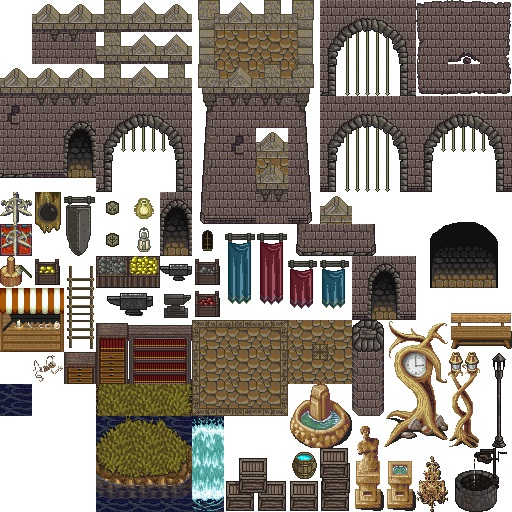
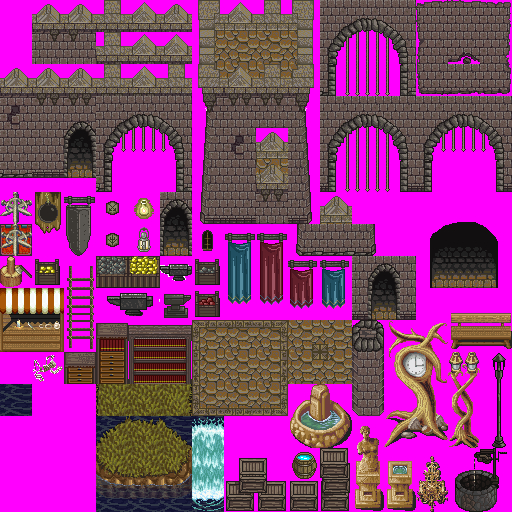
Fixed some weirdness with the tileset by using (255, 0, 255) as alpha color.

diff --git a/src/Maps.py b/src/Maps.py
@@ -3,18 +3,30 @@ from Knight_Game_Objects import *
 
 class Map:
     
-    def __init__(self, tileset, layout, static_objects):
+    def __init__(self, tileset, layout, static_objects=[]):
         self.tileset = tileset
         self.layout = layout
         self.static_objects = static_objects
-
+        self.blank_tile = pygame.Surface((32, 32)).convert()
+        
 # definitions of maps
 
+# castle_tileset_test_map
+layout = []
+counter = 0
+for i in range(16):
+    temp_row = []
+    for j in range(16):
+        temp_row.append(counter)
+        counter += 1
+    layout.append(temp_row)
+
+castle_tileset_test_map = Map(Tilesets.castle, layout)
+
 # map01
-tileset = Tilesets.castle
 layout = [
-    [  6, 164, 165, 164, 165, 164, 165, 164, 165, 164, 165, 164, 165, 164, 165, 164, 165, 164, 165, 164, 165, 164, 165, 164, 165, 164, 165, 164, 165, 164, 165, 164, 165,   9],
-    [ 22, 180, 181, 180, 181, 180, 181, 180, 181, 180, 181, 180, 181, 180, 181, 180, 181, 180, 181, 180, 181, 180, 181, 180, 181, 180, 181, 180, 181, 180, 181, 180, 181,  25],
+    [  6,   8,   8,   8,   8,   8,   8,   8,   8,   8,   8,   8,   8,   8,   8,   8,   8,   8,   8,   8,   8,   8,   8,   8,   8,   8,   8,   8,   8,   8,   8,   8,   8,   9],
+    [ 22, 166, 167, 167, 167, 167, 167, 167, 167, 167, 167, 167, 167, 167, 167, 167, 167, 167, 167, 167, 167, 167, 167, 167, 167, 167, 167, 167, 167, 167, 167, 167, 168,  25],
     [ 22, 182, 183, 183, 183, 183, 183, 183, 183, 183, 183, 183, 183, 183, 183, 183, 183, 183, 183, 183, 183, 183, 183, 183, 183, 183, 183, 183, 183, 183, 183, 183, 184,  25],
     [ 22, 182, 183, 183, 183, 183, 183, 183, 183, 183, 183, 183, 183, 183, 183, 183, 183, 183, 183, 183, 183, 183, 183, 183, 183, 183, 183, 183, 183, 183, 183, 183, 184,  25],
     [ 22, 182, 183, 183, 183, 183, 183, 183, 183, 183, 183, 183, 183, 183, 183, 183, 183, 183, 183, 183, 183, 183, 183, 183, 183, 183, 183, 183, 183, 183, 183, 183, 184,  25],
@@ -51,9 +63,19 @@ layout = [
     [ 38,  40,  40,  40,  40,  40,  40,  40,  40,  40,  40,  40,  40,  40,  40,  40,  40,  40,  40,  40,  40,  40,  40,  40,  40,  40,  40,  40,  40,  40,  40,  40,  40,  41]
 ]
 static_objects = [
-    Pyramid_of_crates(50, 50),
+    Bookshelf(32, 32),
+    Bookshelf(97, 32),
+    Bookshelf(161, 32),
+    Bookshelf(225, 32),
+    Bookshelf(289, 32),
+    Bookshelf(353, 32),
     Pyramid_of_crates(80, 90),
-    Pyramid_of_crates(128, 256)
+    Pyramid_of_crates(128, 256),
+    Pyramid_of_crates(256, 156),
+    Pyramid_of_crates(800, 256),
+    Anvil_01(300, 600),
+    Anvil_01(600, 600),
+    Skeleton(211, 400),
+    Skeleton(311, 402)
 ]
-map01 = Map(tileset, layout, static_objects)
-map01.blank_tile = pygame.Surface((32, 32)).convert()
+map01 = Map(Tilesets.castle, layout, static_objects)

diff --git a/src/Knight_Game_Objects.py b/src/Knight_Game_Objects.py
@@ -2,6 +2,8 @@ import pygame
 from pygame.locals import *
 import Tilesets
 
+ALPHA_COLOR = (255, 0, 255)
+
 class Knight_Game_Object:
 
     def __init__(self, image, solid=False, rect = None):
@@ -13,13 +15,44 @@ class Knight_Game_Object:
 
 # definitions of game objects
 
-# Pyramid of crates
+class Anvil_01(Knight_Game_Object):
+    
+    def __init__(self, x, y):
+        image = pygame.Surface((32, 32)).convert()
+        image.fill(ALPHA_COLOR)
+        image.set_colorkey(ALPHA_COLOR)
+        image.blit(Tilesets.castle[133], (0,0))
+        rect = image.get_rect()
+        
+        Knight_Game_Object.__init__(self, image, True, rect)
+        
+        self.x = x
+        self.y = y
+
+        
+class Bookshelf(Knight_Game_Object):
+    
+    def __init__(self, x, y):
+        image = pygame.Surface((64, 64)).convert()
+        image.fill(ALPHA_COLOR)
+        image.set_colorkey(ALPHA_COLOR)
+        image.blit(Tilesets.castle[164], (0, 0))
+        image.blit(Tilesets.castle[165], (32, 0))
+        image.blit(Tilesets.castle[180], (0, 32))
+        image.blit(Tilesets.castle[181], (32, 32))
+        rect = image.get_rect()
+        
+        Knight_Game_Object.__init__(self, image, True, rect)
+        
+        self.x = x
+        self.y = y
+        
 class Pyramid_of_crates(Knight_Game_Object):
 
     def __init__(self, x, y):
         image = pygame.Surface((64, 64)).convert()
-        image.fill((255,255,255))
-        image.set_colorkey((255,255,255))
+        image.fill(ALPHA_COLOR)
+        image.set_colorkey(ALPHA_COLOR)
         image.blit(Tilesets.castle[231], (0, 0))
         image.blit(Tilesets.castle[232], (32, 0))
         image.blit(Tilesets.castle[247], (0, 32))
@@ -30,3 +63,18 @@ class Pyramid_of_crates(Knight_Game_Object):
         
         self.x = x
         self.y = y
+
+class Skeleton(Knight_Game_Object):
+    
+    def __init__(self, x, y):
+        image = pygame.Surface((32, 32)).convert()
+        image.fill(ALPHA_COLOR)
+        image.set_colorkey(ALPHA_COLOR)
+        image.blit(Tilesets.castle[177], (0,0))
+        rect = image.get_rect()
+        
+        Knight_Game_Object.__init__(self, image, False, rect)
+        
+        self.x = x
+        self.y = y
+        

diff --git a/src/Main.py b/src/Main.py
@@ -97,6 +97,8 @@ def draw(main_window, player, game_objects, map):
         512-int(player.height/2)+player_y_offset))
     
     # if a static game object falls within the submap, draw it
+    # REMEMBER: eventually want to change exactly what x, y coordinates to draw
+    # from based on the object's collision rectangle
     for object in map.static_objects:
         object_tile_x = int(object.x/MAP_TILE_SIZE)
         object_tile_y = int(object.y/MAP_TILE_SIZE)

diff --git a/src/Tilesets.py b/src/Tilesets.py
@@ -1,6 +1,6 @@
 import Image_Utils
 
-WHITE = (255, 255, 255)
+ALPHA_COLOR = (255, 0, 255)
 
 # list of tilesets
-castle = Image_Utils.load_tileset("src/Castle.png", 512, 512, 32, 32, WHITE)
+castle = Image_Utils.load_tileset("src/Castle.png", 512, 512, 32, 32, ALPHA_COLOR)
